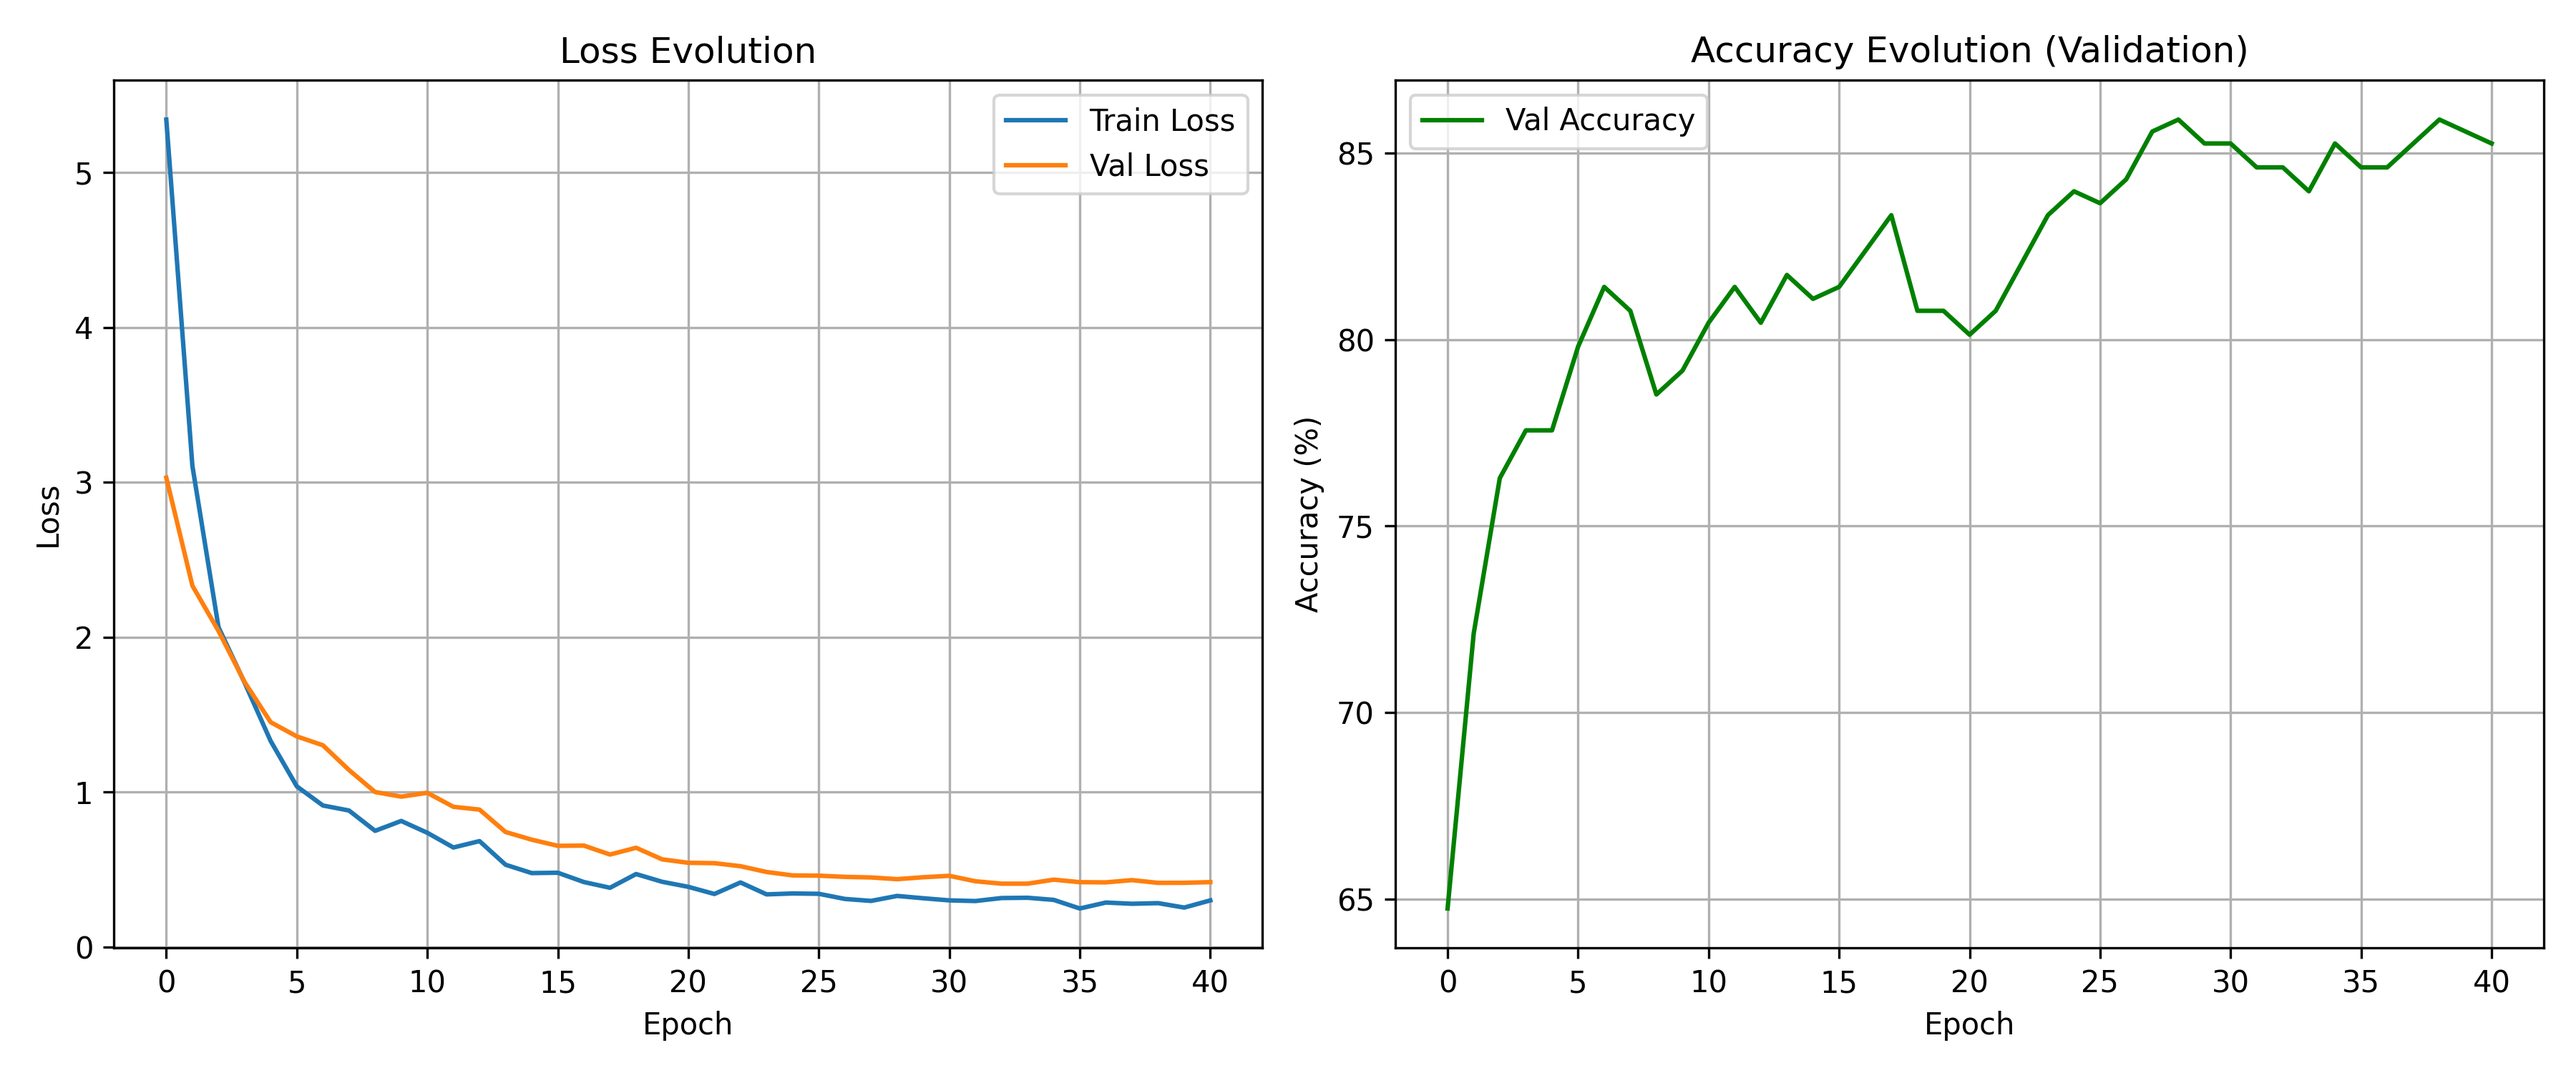
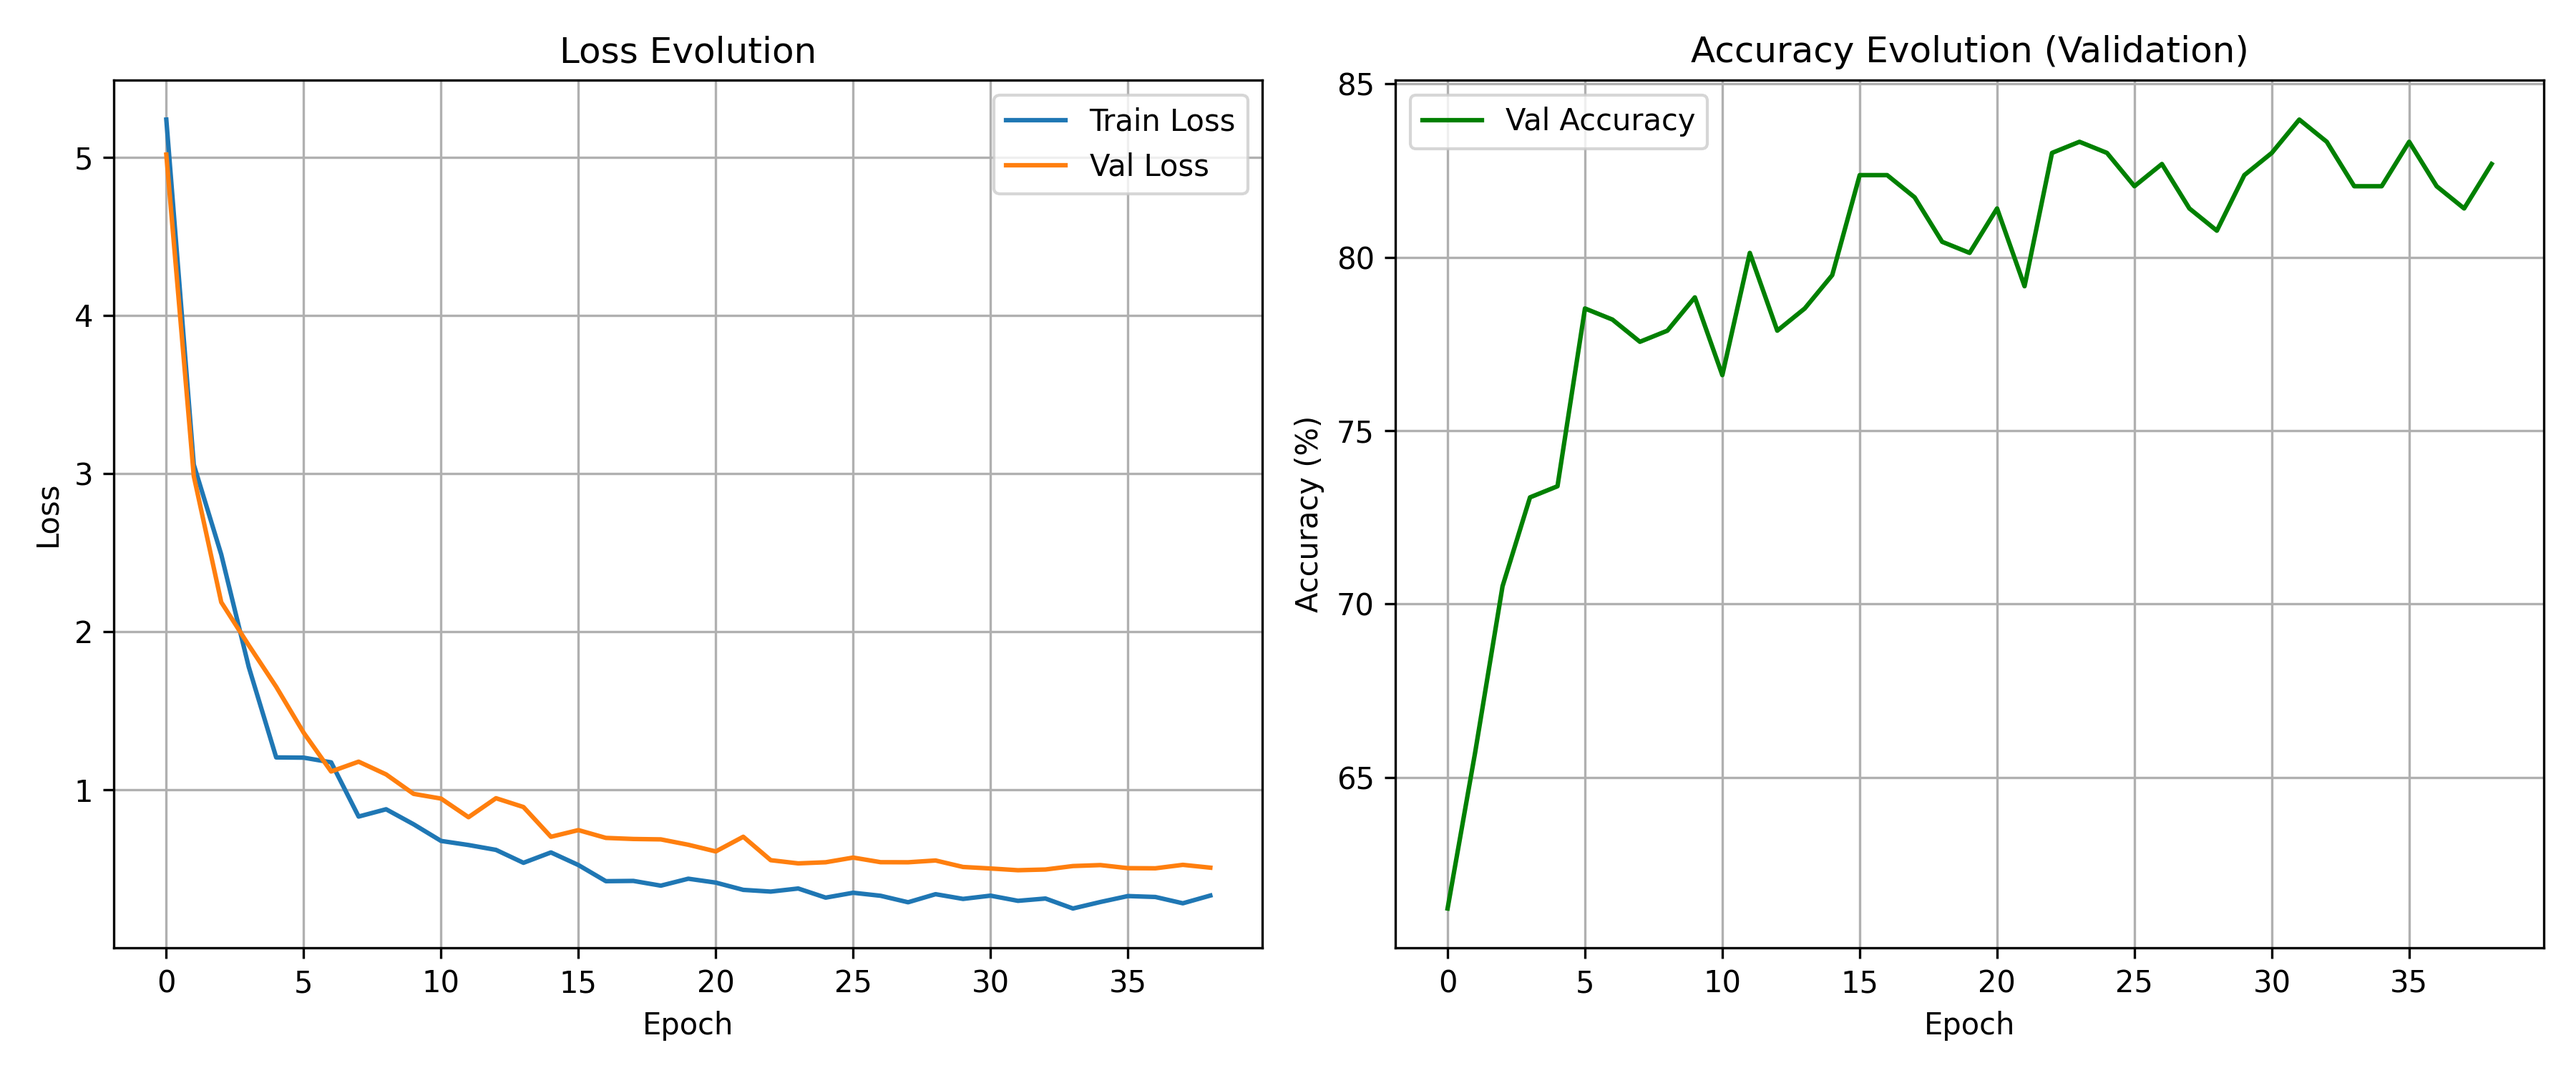
Refactor code structure for improved readability and maintainability

diff --git a/evaluate.py b/evaluate.py
@@ -88,10 +88,6 @@ def visualize_errors(model, loader, device, threshold=0.5, max_images=10):
     
     
 def get_optimal_threshold(model, loader, device):
-    """
-    Calculates the best threshold on a specific loader (e.g., Validation Set)
-    to maximize the F1 Score.
-    """
     model.eval()
     all_probs, all_labels = [], []
     
@@ -110,15 +106,14 @@ def get_optimal_threshold(model, loader, device):
     all_probs = np.array(all_probs)
     all_labels = np.array(all_labels)
     
-    precisions, recalls, thresholds = precision_recall_curve(all_labels, all_probs)
-    f1_scores = 2 * (precisions * recalls) / (precisions + recalls + 1e-8)
     
-    best_idx = np.argmax(f1_scores)
+    fpr, tpr, thresholds = roc_curve(all_labels, all_probs)
+    j_scores = tpr - fpr
     
+    best_idx = np.argmax(j_scores)
+    best_threshold = thresholds[best_idx]
     
-    best_threshold = thresholds[best_idx] if best_idx < len(thresholds) else thresholds[-1]
-    
-    print(f"Optimal threshold found: {best_threshold:.4f} with F1: {f1_scores[best_idx]:.4f}")
+    print(f"Optimal threshold (Youden's J) found: {best_threshold:.4f}")
     return best_threshold
 
 def evaluate_model(model, loader, device, threshold=0.5):
@@ -197,3 +192,86 @@ def evaluate_model(model, loader, device, threshold=0.5):
     plt.show()
 
     print("\n[Success] Evaluation completed. Plots saved as 'model_performance.png'.")
+    
+
+def evaluate_model_tta(model, loader, device, threshold=0.5):
+    """
+    Evaluează modelul folosind metoda 5-Crop Test-Time Augmentation.
+    """
+    model.eval()
+    all_probs = []
+    all_labels = []
+
+    print("\n" + "="*50)
+    print(f"STARTING 5-CROP TTA EVALUATION (Threshold: {threshold:.2f})")
+    print("="*50)
+
+    with torch.no_grad():
+        for stacked_crops, labels, _ in loader:
+            
+            batch_size, num_crops, c, h, w = stacked_crops.size()
+            
+            
+            
+            inputs = stacked_crops.view(-1, c, h, w).to(device)
+            labels = labels.to(device)
+
+            with torch.autocast(device_type='cuda', dtype=torch.float16):
+                outputs = model(inputs)
+            
+            
+            probs = F.softmax(outputs, dim=1)[:, 1]
+            
+            
+            probs_reshaped = probs.view(batch_size, num_crops)
+            avg_probs = probs_reshaped.mean(dim=1)
+            
+            all_probs.extend(avg_probs.cpu().numpy())
+            all_labels.extend(labels.cpu().numpy())
+
+    all_probs = np.array(all_probs)
+    all_labels = np.array(all_labels)
+
+    optimized_preds = (all_probs >= threshold).astype(int)
+
+    roc_auc = roc_auc_score(all_labels, all_probs)
+    print(f"ROC AUC Score: {roc_auc:.4f}")
+    print(f"\nClassification Report (Fixed Threshold: {threshold:.4f}):")
+    print(classification_report(all_labels, optimized_preds, target_names=['Real', 'AI']))
+
+    plt.figure(figsize=(20, 6))
+    
+    
+    fpr, tpr, _ = roc_curve(all_labels, all_probs)
+    plt.subplot(1, 3, 1)
+    plt.plot(fpr, tpr, color='darkorange', lw=2, label=f'AUC = {roc_auc:.3f}')
+    plt.plot([0, 1], [0, 1], color='navy', lw=1, linestyle='--')
+    plt.xlabel('False Positive Rate')
+    plt.ylabel('True Positive Rate')
+    plt.title('ROC Curve (5-Crop TTA)')
+    plt.legend(loc="lower right")
+    plt.grid(alpha=0.3)
+
+    
+    precisions, recalls, _ = precision_recall_curve(all_labels, all_probs)
+    plt.subplot(1, 3, 2)
+    plt.plot(recalls, precisions, color='blue', lw=2)
+    plt.xlabel('Recall')
+    plt.ylabel('Precision')
+    plt.title('Precision-Recall Curve (5-Crop TTA)')
+    plt.grid(alpha=0.3)
+
+    
+    plt.subplot(1, 3, 3)
+    cm = confusion_matrix(all_labels, optimized_preds)
+    sns.heatmap(cm, annot=True, fmt='d', cmap='Blues', cbar=False,
+                xticklabels=['Real', 'AI'], yticklabels=['Real', 'AI'])
+    plt.title(f'Confusion Matrix (Threshold: {threshold:.2f})')
+    plt.xlabel('Model Prediction')
+    plt.ylabel('True Class')
+
+    plt.tight_layout()
+    plt.savefig('tta_model_performance.png', dpi=300)
+    plt.show()
+
+    print("\n[Success] Evaluarea TTA finalizată. Graficele au fost salvate.")

diff --git a/dataset.py b/dataset.py
@@ -3,6 +3,7 @@ from albumentations.pytorch import ToTensorV2
 import cv2
 from torch.utils.data import Dataset
 import numpy as np
+import torch
 
 
 train_transform = A.Compose([
@@ -43,3 +44,57 @@ class AIDetectionDataset(Dataset):
             image = augmented['image']
 
         return image, label, img_path
+    
+class TTADetectionDataset(Dataset):
+    def __init__(self, image_paths, labels, crop_size=384):
+        self.image_paths = image_paths
+        self.labels = labels
+        self.crop_size = crop_size
+        
+        
+        self.pad_if_needed = A.PadIfNeeded(
+            min_height=crop_size, 
+            min_width=crop_size, 
+            border_mode=cv2.BORDER_CONSTANT, 
+            value=[0, 0, 0]
+        )
+        
+        
+        self.normalize = A.Compose([
+            A.Normalize(mean=(0.485, 0.456, 0.406), std=(0.229, 0.224, 0.225)),
+            ToTensorV2()
+        ])
+
+    def __len__(self):
+        return len(self.image_paths)
+
+    def __getitem__(self, idx):
+        img_path = self.image_paths[idx]
+        image = cv2.imread(img_path)
+        image = cv2.cvtColor(image, cv2.COLOR_BGR2RGB)
+        
+        
+        image = self.pad_if_needed(image=image)['image']
+        
+        h, w, _ = image.shape
+        c = self.crop_size
+        
+        
+        crops = [
+            image[0:c, 0:c],                                
+            image[0:c, w-c:w],                              
+            image[h-c:h, 0:c],                              
+            image[h-c:h, w-c:w],                            
+            image[(h-c)//2:(h+c)//2, (w-c)//2:(w+c)//2]     
+        ]
+        
+        
+        tensor_crops = []
+        for crop in crops:
+            tensor_crops.append(self.normalize(image=crop)['image'])
+            
+        
+        stacked_crops = torch.stack(tensor_crops)
+        label = self.labels[idx]
+
+        return stacked_crops, label, img_path

diff --git a/train.py b/train.py
@@ -5,8 +5,8 @@ from torch.utils.data import DataLoader
 from model import build_model
 
 
-from dataset import AIDetectionDataset, train_transform, val_transform
-from evaluate import evaluate_model, get_optimal_threshold, visualize_errors
+from dataset import AIDetectionDataset, TTADetectionDataset, train_transform, val_transform
+from evaluate import evaluate_model, evaluate_model_tta, get_optimal_threshold, visualize_errors
 import matplotlib.pyplot as plt
 import cv2
 import numpy as np
@@ -142,6 +142,20 @@ def main():
         persistent_workers=True,
         pin_memory=True
     )
+    
+    tta_test_dataset = TTADetectionDataset(
+        test_image_paths, 
+        test_labels, 
+        crop_size=224
+    )
+    tta_test_loader = DataLoader(
+        tta_test_dataset, 
+        batch_size=batch_size, 
+        shuffle=False, 
+        num_workers=6,
+        persistent_workers=True,
+        pin_memory=True
+    )
 
     num_epochs = 50
     patience = 7
@@ -233,13 +247,16 @@ def main():
 
     save_learning_curves(history)
     print("\nTraining completed! Running detailed evaluation...")
-
-
+    
+    tta=1
     model.load_state_dict(torch.load(save_path))
     best_thr = get_optimal_threshold(model, val_loader, device)
     
-    evaluate_model(model, test_loader, device, threshold=best_thr)
-    visualize_errors(model, test_loader, device, threshold=best_thr, max_images=5)
+    if tta==0:
+        evaluate_model(model, test_loader, device, threshold=best_thr)
+        visualize_errors(model, test_loader, device, threshold=best_thr, max_images=5)
+    else:
+        evaluate_model_tta(model, tta_test_loader, device, threshold=0.5)
 
 if __name__ == '__main__':
     main()

diff --git a/model.py b/model.py
@@ -14,6 +14,6 @@ def build_model():
 
     
     criterion = nn.CrossEntropyLoss()
-    optimizer = torch.optim.AdamW(model.parameters(), lr=5e-5, weight_decay=1e-2)
+    optimizer = torch.optim.AdamW(model.parameters(), lr=1e-4, weight_decay=1e-1)
     
     return model, criterion, optimizer, device
